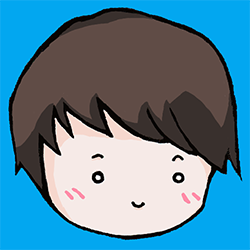
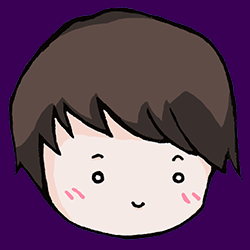
WIP

diff --git a/index.html b/index.html
@@ -5,6 +5,7 @@
         <link rel="stylesheet" href="./css/style.css">
         <link rel="stylesheet" href="./css/index.css">
         <link rel="stylesheet" href="./css/dropMenu.css">
+        <link rel="icon" href="./img/logo.png">
         <link rel="preconnect" href="https://fonts.gstatic.com">
         <link href="https://fonts.googleapis.com/css2?family=PT+Sans:ital,wght@0,400;0,700;1,400;1,700&display=swap" rel="stylesheet">
     </head>
@@ -23,28 +24,22 @@
         </div>
         <div class="intro">
             <h1>Student Front-end Developer</h1>
-            <h2>Hello there, I'm Tavis, a 1st year student with an interest in web design.</h2>
+            <h2>1st year student with an interest in web design.</h2>
             <img src="./img/me.png">
             <!--Image goes here-->
         </div>
         <div class="about">
             <div class="aboutTxt">
-                <p>Lorem ipsum dolor sit amet, 
-                consectetur adipiscing elit. 
-                Aenean euismod bibendum laoreet. 
-                Proin gravida dolor sit amet lacus accumsan et viverra justo commodo. 
-                Proin sodales pulvinar sic tempor. 
-                Sociis natoque penatibus et magnis dis parturient montes, 
-                nascetur ridiculus mus. 
-                Nam fermentum, nulla luctus pharetra vulputate, 
-                felis tellus mollis orci, 
-                sed rhoncus pronin sapien nunc accuan eget.</p>
-                <button>Find out more</button>
+                <p>Hello there, I'm Tavis!<br>
+                I am a first year student at OAMK studying a Degree Programme in Information Technology.<br>
+                
+                If you wish to find out more about me, you can click below!</p>
+                <button>Click me!</button>
             </div>
         </div>
         <div class="skills">
             <div class="coding">
-
+                
             </div>
             <div class="graphicDesign">
 

diff --git a/css/contact.css b/css/contact.css
@@ -3,6 +3,7 @@
 }
 .headerCtrl img {
     cursor: pointer;
+    max-height: 40px;
 }
 .me {
     max-height: 125px;
@@ -16,6 +17,12 @@
 .intro h1 {
     font-size: 44px;
     font-weight: 400;
+    color: white;
+    text-shadow:
+   -2px -2px 0 black,  
+    2px -2px 0 black,
+    -2px 2px 0 black,
+     2px 2px 0 black;
 }
 .contact {
     margin: auto;
@@ -52,27 +59,46 @@
 .contactSubmit button {
     font-family: 'PT Sans', sans-serif;
     font-size: 22px;
-    border: 2px solid #02A7F0;
+    border: 2px solid #3a0055;
     border-radius: 22px;
     padding: 10px;
     cursor: pointer;
+    transition: 1s;
+}
+.contactSubmit button:hover {
+    background-color: #3a0055;
+    border: 2px solid #f2f2f2;
+    color: white;
+    transition: 1s;
 }
 label {
-    font-size: 18px;
+    font-size: 22px;
     margin-bottom: 1%;
+    color: white;
+    text-shadow:
+   -2px -2px 0 black,  
+    2px -2px 0 black,
+    -2px 2px 0 black,
+     2px 2px 0 black;
 }
 input {
-    background-color: #f6f6f600;
-    border: 1px solid #02A7F0;
+    background-color: #ffffff28;
+    border: 2px solid #3a0055;
     border-radius: 5px;
     font-size: 18px;
     padding-top: 5px;
     padding-bottom: 5px;
     outline: none;
+    color: white;
+    text-shadow:
+   -2px -2px 0 black,  
+    2px -2px 0 black,
+    -2px 2px 0 black,
+     2px 2px 0 black;
 }
 textarea {
-    background-color: #f6f6f600;
-    border: 1px solid #02A7F0;
+    background-color: #ffffff28;
+    border: 2px solid #3a0055;
     border-radius: 5px;
     font-size: 18px;
     height: 200px;
@@ -80,4 +106,10 @@ textarea {
     padding-bottom: 5px;
     outline: none;
     resize: none;
+    color: white;
+    text-shadow:
+   -2px -2px 0 black,  
+    2px -2px 0 black,
+    -2px 2px 0 black,
+     2px 2px 0 black;
 }

diff --git a/css/index.css b/css/index.css
@@ -2,22 +2,34 @@
     text-align: center;
 }
 .intro h1 {
-    font-size: 44px;
+    font-size: 48px;
     font-weight: 700;
     letter-spacing: 0.5px;
+    color: white;
+    text-shadow:
+   -2px -2px 0 black,  
+    2px -2px 0 black,
+    -2px 2px 0 black,
+     2px 2px 0 black;
 }
 .intro h2 {
-    font-size: 26px;
+    color: white;
+    font-size: 24px;
     font-weight: 400;
     letter-spacing: 0.5px;
-    opacity: 70%;
+    opacity: 90%;
+    text-shadow:
+   -2px -2px 0 black,  
+    2px -2px 0 black,
+    -2px 2px 0 black,
+     2px 2px 0 black;
 }
 .intro img {
-    margin: 2%;
+    margin-bottom: 2%;
     border-radius: 125px;
 }
 .about {
-    background-color: #02A7F0;
+    background-color: #3a00558e;
     padding-bottom: 2.5%;
     position: absolute;
     left: 0;
@@ -29,23 +41,31 @@
     text-align: center;
 }
 .aboutTxt p {
+    color: white;
     font-size: 22px;
     font-weight: 400;
     letter-spacing: 0.5px;
     text-align: center;
-    margin-bottom: 5%;
+    margin-bottom: 3%;
 }
 .aboutTxt button{
     background-color: #f2f2f2;
     font-family: 'PT Sans', sans-serif;
     font-size: 22px;
-    border: 2px solid black;
+    border: 2px solid #3a0055;
     border-radius: 22px;
     padding: 10px;
+    transition: 1s;
+    cursor: pointer;
+}
+.aboutTxt button:hover {
+    background-color: #3a0055;
+    border: 2px solid #f2f2f2;
+    color: white;
+    transition: 1s;
 }
 .skills {
     display: flex;
     flex-direction: column;
     text-align: center;
-
 }

diff --git a/css/dropMenu.css b/css/dropMenu.css
@@ -4,12 +4,13 @@
 }
 .dropBtn {
     cursor: pointer;
+    max-height: 40px;
 }
 .dropDownMenu {
     display: none;
     position: absolute;
-    background-color: #02A7F0;
-    min-width: 180px;
+    background-color: #3a0055;
+    min-width: 150px;
     box-shadow: 0px 8px 16px 0px rgba(0,0,0,0.2);
     z-index: 1;
     right: 0;
@@ -22,7 +23,7 @@
     font-size: 20px;
 }
 .dropDownMenu a:hover {
-    outline: 1px solid black;
+    outline: 1px solid white;
 }
 .dropDown:hover .dropDownMenu {
     display: block;

diff --git a/contact.html b/contact.html
@@ -4,6 +4,7 @@
         <meta charset="UTF-8">
         <link rel="stylesheet" href="./css/style.css">
         <link rel="stylesheet" href="./css/contact.css">
+        <link rel="icon" href="./img/logo.png">
         <link rel="preconnect" href="https://fonts.gstatic.com">
         <link href="https://fonts.googleapis.com/css2?family=PT+Sans:ital,wght@0,400;0,700;1,400;1,700&display=swap" rel="stylesheet">
     </head>

diff --git a/css/style.css b/css/style.css
@@ -1,5 +1,5 @@
 body {
-    background-color: #F2F2F2;
+    background-image: url(../img/galaxy.jpg);
     font-family: 'PT Sans', sans-serif;
 }
 .header {
@@ -11,10 +11,11 @@ body {
     flex-direction: row;
     justify-content: space-between;
     align-items: center;
+    padding: 1%;
 }
 .logo {
     cursor: pointer;
-    max-height: 50px;
+    max-height: 75px;
 }
 
 
